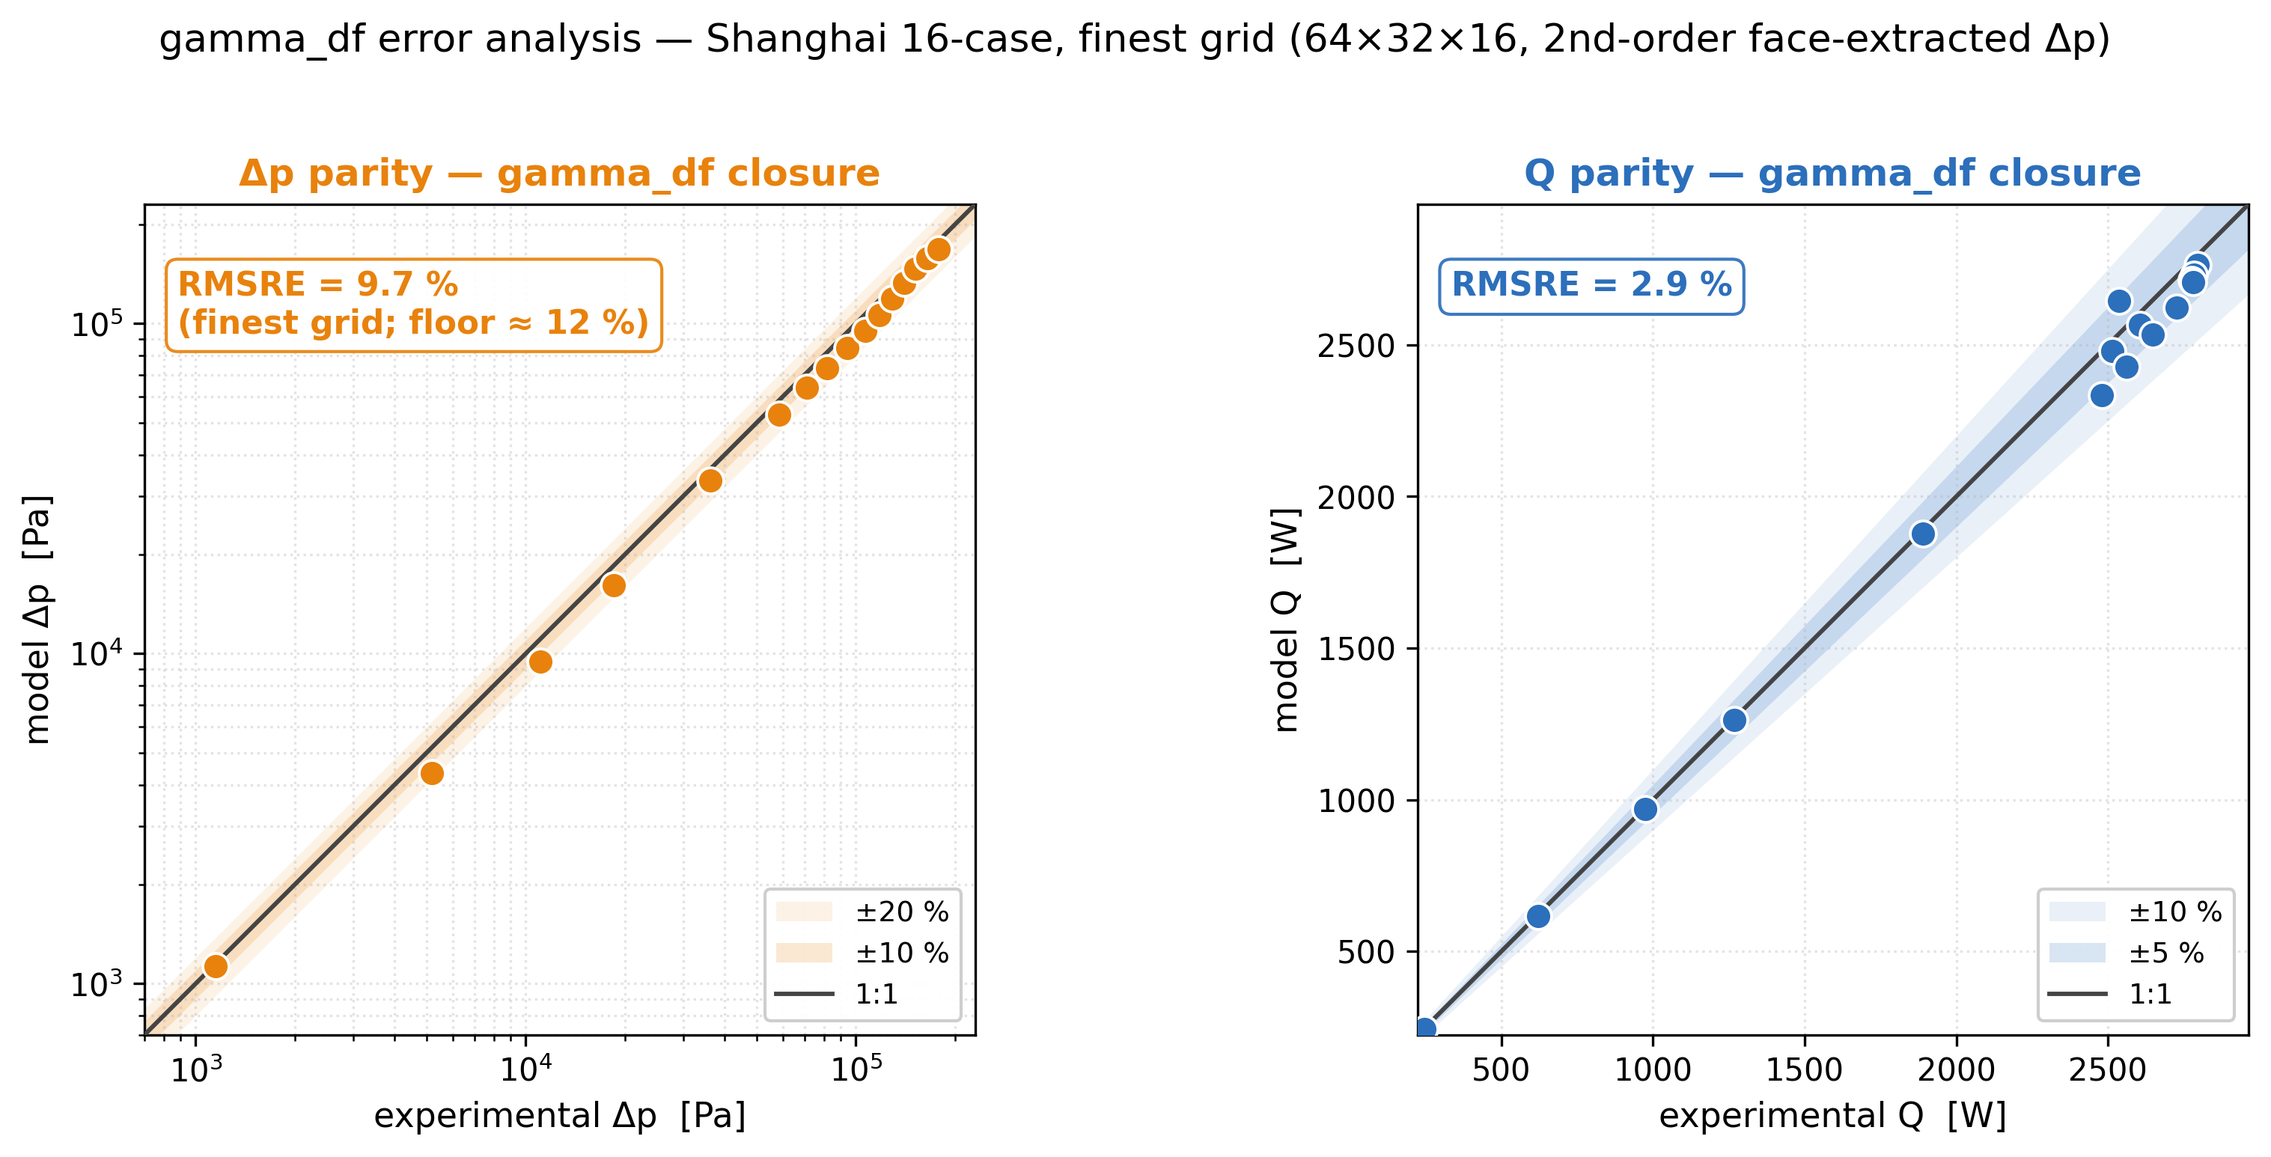
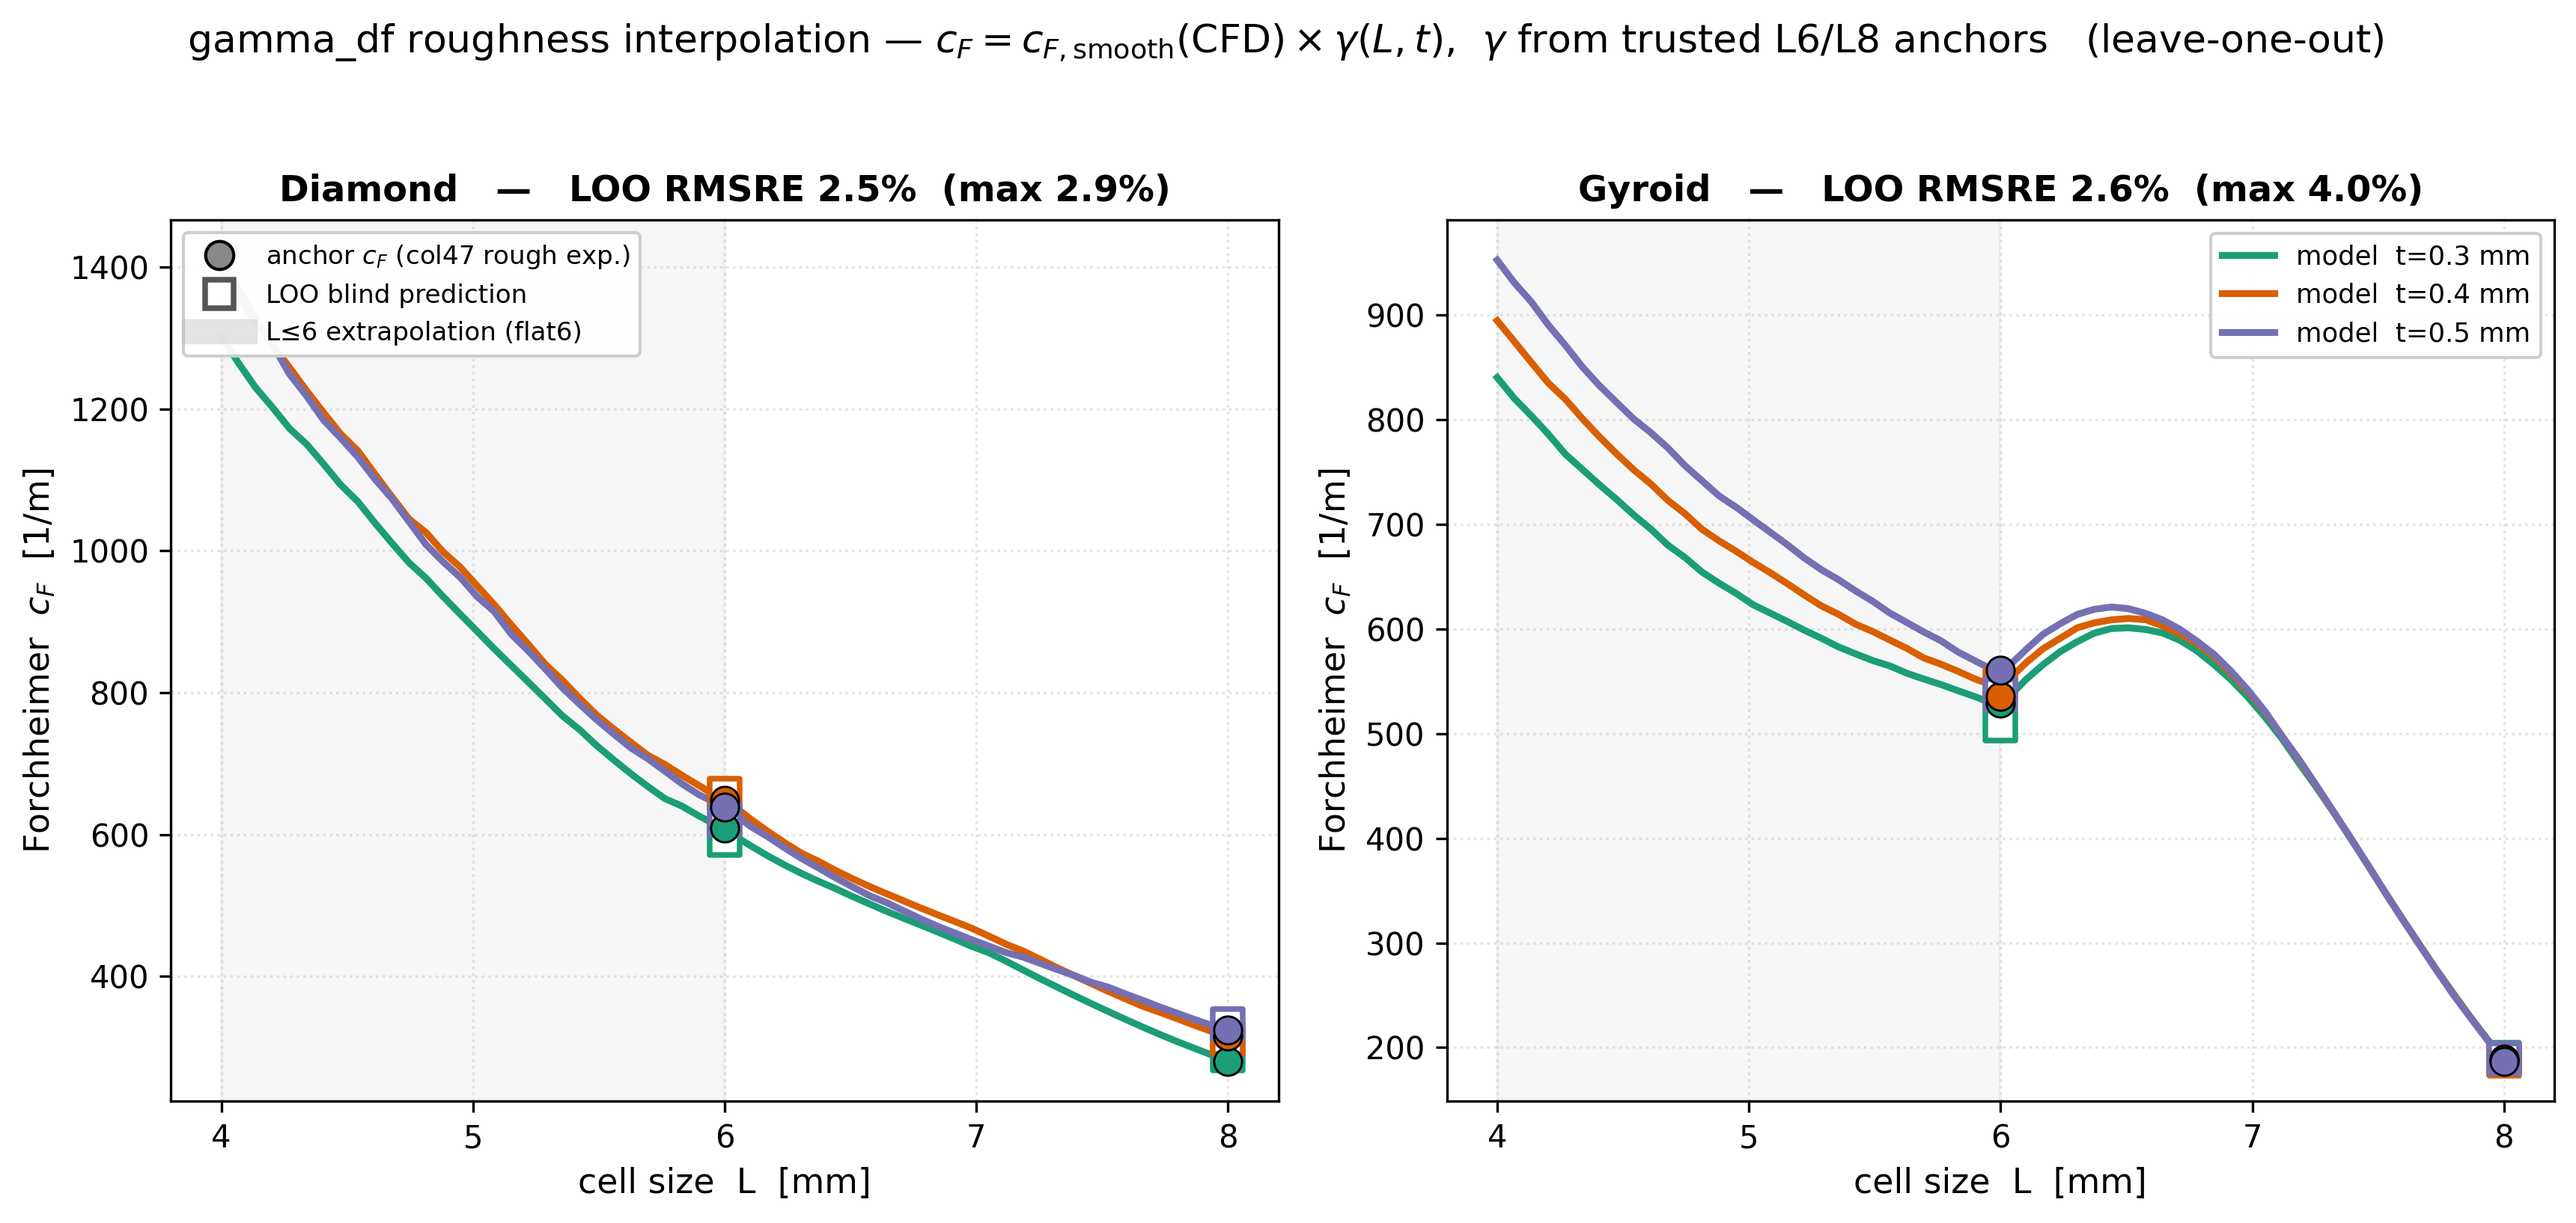
docs(readme): rework closure figures — Nu vs Re (not parity) + gamma_df cF LOO
Per request: error-analysis figures are now standard variable-vs-variable
(not parity), with rendered (mathtext) formulas.

* nu-air-error.png / nu-water-error.png — Nu vs Re: CFD scatter + the solver's
  own correlation curve per topology (Diamond orange / Gyroid blue), formula
  rendered. Air smooth-wall fit RMSRE 10.1/9.9% with the ×1.28 production
  roughness shown as a dashed curve; water direct-CFD fit 12.5/12.0%.
* gammadf-error.png — replaced the solver dP/Q parity with the gamma_df
  INTERPOLATION error: cF vs cell size L, model curves at t=0.3/0.4/0.5 with
  the rough-experiment L6/L8 anchors and leave-one-out blind predictions.
  LOO RMSRE Diamond 2.5% (max 2.9) / Gyroid 2.6% (max 4.0) — reproduces the
  scoreboard exactly.

README: regrouped all three into a "Closure correlations" section (DF cF + dual
Nu); removed the old solver-parity figure from the headline area.

diff --git a/README.md b/README.md
@@ -58,12 +58,6 @@
 
 <sub>All-axis (r=2) refinement. **Δp** RMSRE climbs to a **≈ 12 % geometry / closure floor** (Richardson, p<sub>obs</sub> ≈ 0.76) — the production `Nz=10` grid (★, ≈ 7 %) is under-resolved. **Q** is a duty integral: clean 2nd-order, grid-converged at **≈ 3 %**.</sub>
 
-<br><br>
-
-<img src="assets/gammadf-error.png" width="93%" alt="gamma_df closure error analysis — per-case parity of model vs experimental Δp (orange, log-log, RMSRE 9.7%) and Q (blue, RMSRE 2.9%) across the Shanghai 16 cases at the finest 64x32x16 grid.">
-
-<sub>**gamma_df** closure per-case parity at the finest computed grid (64×32×16). **Δp** (orange) tracks experiment across two decades — the high-Δp cases sit ≈ 10 % low, the systematic under-prediction that is the ≈ 12 % grid-converged floor. **Q** (blue) lies within ±5 % (RMSRE ≈ 3 %).</sub>
-
 </div>
 
 ---
@@ -83,16 +77,22 @@
 
 ---
 
-## 📐 Nu closure correlations
+## 📐 Closure correlations
 
 <div align="center">
 
+<img src="assets/gammadf-error.png" width="92%" alt="gamma_df Forchheimer cF interpolation error — cF vs cell size L for Diamond and Gyroid, model curves at t=0.3/0.4/0.5mm with rough-experiment anchors at L6/L8 and leave-one-out blind predictions; LOO RMSRE 2.5% Diamond, 2.6% Gyroid.">
+
+<sub>**Darcy–Forchheimer** roughness closure (`gamma_df`): `cF = cF_smooth(CFD) × γ(L,t)`, the roughness factor **γ interpolated from the trusted L6/L8 SLM-rough experimental anchors** (+ Gyroid L7 Shanghai gate). **Leave-one-out** interpolation error: **Diamond 2.5 %** (max 2.9 %) · **Gyroid 2.6 %** (max 4.0 %). `K` is a smooth `D_h²` trend (deliberately not roughness-fit — Forchheimer-dominated window, Darcy share 1–6 %).</sub>
+
+<br><br>
+
 <table><tr>
-<td><img src="assets/nu-air-error.png" width="100%" alt="Air-side Nu correlation fit vs CFD — parity for Diamond (orange, n=163, RMSRE 10.1%) and Gyroid (blue, n=201, RMSRE 9.9%), Nu = c·Pr^(1/3)·Re^a·(Dh/L)^d, Re 400-16k."></td>
-<td><img src="assets/nu-water-error.png" width="100%" alt="Water-side Nu correlation fit vs CFD — parity for Diamond (orange, n=940, RMSRE 12.5%) and Gyroid (blue, n=939, RMSRE 12.0%), Nu = c·Re^a·Pr^(1/3), Re 100-50k, Pr 2.3-5.9."></td>
+<td><img src="assets/nu-air-error.png" width="100%" alt="Air-side Nu vs Re — CFD scatter and solver correlation curves for Diamond (orange, RMSRE 10.1%) and Gyroid (blue, RMSRE 9.9%), Nu = c·Pr^(1/3)·Re^a·(Dh/L)^d, smooth-wall, Re 400-16k, dashed = x1.28 production roughness."></td>
+<td><img src="assets/nu-water-error.png" width="100%" alt="Water-side Nu vs Re — CFD scatter and solver correlation curves for Diamond (orange, RMSRE 12.5%) and Gyroid (blue, RMSRE 12.0%), Nu = c·Re^a·Pr^(1/3), Re 100-50k, Pr 2.3-5.9."></td>
 </tr></table>
 
-<sub>Per-topology Nusselt power-laws (the solver's own coefficients, `solvers/nu_correlations.py`), parity vs the full fit set (**Diamond** orange · **Gyroid** blue). **Air** `Nu = c·Pr^⅓·Re^a·(Dh/L)^d` — smooth-wall fit RMSRE ≈ 10 %; production multiplies by **×1.28** (experiment-derived SLM-roughness φ_rough, dashed line; Nu range D [12,199] · G [14,265]). **Water** `Nu = c·Re^a·Pr^⅓` — fit to **water-CFD only** (RMSRE ≈ 12 %); Gyroid cross-checks the **Yan 2024 experiment within ±1 %**, Diamond is CFD-only (no water experiment).</sub>
+<sub>Per-topology **Nusselt** power-laws (the solver's own coefficients, `solvers/nu_correlations.py`) — Nu vs Re over the full CFD fit set (**Diamond** orange · **Gyroid** blue). **Air** `Nu = c·Pr^⅓·Re^a·(Dh/L)^d` — smooth-wall fit RMSRE ≈ 10 %; production multiplies by **×1.28** experiment-derived SLM roughness (dashed). **Water** `Nu = c·Re^a·Pr^⅓` — fit to **water-CFD only** (RMSRE ≈ 12 %); Gyroid cross-checks the **Yan 2024 experiment within ±1 %**, Diamond is CFD-only (no Diamond water experiment).</sub>
 
 </div>
 
